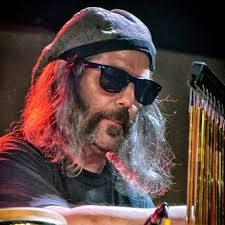
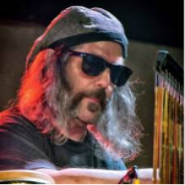
redesigned photos to suit page layout

diff --git a/index.html b/index.html
@@ -45,12 +45,57 @@
                <div class="col-xs-12 col-sm-12 col-md-8 bg-color-five-players section-column">
                    <div class="row">
                        <div class="col-md-12">
-                           <h3 class"section-heading uppercase"> The Band</h3>
-                           
-                       </div>
-                       
-                   </div>
-                   
+                           <h3 class="section-heading uppercase"> The band</h3>
+                        </div>
+                    </div>
+                    <div class="row">
+                        <div class="col-xs-10 col-xs-offset-1 col-sm-offset-0 col-sm-4 col-md-6">
+                                <img src="assets/images\michaelgreen.jpg" alt="picture"; style="display: block; height: 185px; width: 185px; margin: 5px auto; text-align: center;">
+                                    <h4 class="five-players-heading uppercase">Michael Green</h4>
+                                    <p>
+                                        Formerly with Blues Image, Mike has performed with many other well known groups. 
+                                        Along with his vocals, he brings additional rhythm to the group.
+                                    </p>
+                            </div>       
+                            <div class="col-xs-10 col-xs-offset-1 col-sm-offset-0 col-sm-4 col-md-6">
+                                <img src="assets/images\ericbarnett.png" alt="picture" style="display: block; margin: 5px auto; text-align: center;">
+                                    <h4 class="five-players-heading uppercase">Eric Barnett</h4>
+                                    <p>
+                                        Eric is a veteran of Iron Butterly and has travelled the world with the original band beginning in 1995.
+                                        He returns with his lead vocals, powerful guitar playing and distinct sound. Eric has performed with 
+                                        many other well known artists. Eric is known as a world class guitarist and vocalist.
+                                    </p>
+                            </div>        
+                        <div class="col-xs-10 col-xs-offset-1 col-sm-offset-0 col-sm-4 col-md-6">
+                            <img src="assets/images\rayweston.png" alt="picture" style="display: block; margin: 5px auto; text-align: center;">
+                                <h4 class="five-players-heading uppercase">Ray Weston</h4>
+                                    <p>
+                                        Ray was a long time member of Wishbone Ash and joined the house bands or Viva Cabaret
+                                        with Tom Jones.  He returned to Wishbone Ash in 1997 - 2007.  In 2010 Ray toured 14
+                                        countries with Iron Butterfly.
+                                    </p>
+                         </div>
+                        <div class="col-xs-10 col-xs-offset-1 col-sm-offset-0 col-sm-4 col-md-6">
+                            <img src="assets/images\dave meros.png" alt="picture" style="display: block; margin: 5px auto; text-align: center;">
+                                <h4 class="five-players-heading uppercase">Dave Meros</h4>
+                                    <p>
+                                        Dave returns again to Iron Butterfly providing the heavy bass lines that Iron Butterfly
+                                        are famous for.  Dave is best known as the bass player for the rock band Spock's Beard.
+                                        He has also played with such artists as Eric Burdon, Bobby Kimball of Toto, Simon Phillips,
+                                        Steve Lukather, Glen Hughes, Mark Lindsay of Paul Revere & The Raiders!
+                                       </p>
+                        </div>       
+                        <div class="col-xs-10 col-xs-offset-1 col-sm-offset-0 col-sm-4 col-md-6">
+                            <img src="assets/images\martin gershwitz.jpg" alt="picture" style="display: block; margin: 5px auto; text-align: center;">
+                        
+                                <h4 class="five-players-heading uppercase">Martin Gerschwitz</h4>
+                                    <p>
+                                        German violinist, keyboardist, and composer Martin Gerschwitz, who had formerly worked with Lita Ford,
+                                        MeatLoaf, Walter Trout and Eric Burdon and The Animals, joined the band in 2005, replacing Larry Rust.
+                                        He stayed until 2012 but has returned to bring his immense talent back to Iron Butterfly.
+                                    </p>
+                        </div>            
+                    </div>
                </div>
                
            </div>    

diff --git a/assets/css/style.css b/assets/css/style.css
@@ -83,7 +83,7 @@ header{
 h1,
 h2,
 h3,
-h4 {text-align: center}
+h4 {text-align: center;}
 
 
 /*----------------------------------------------nav*/
@@ -200,10 +200,12 @@ footer{
 
 .section-heading{
     font-family: "Exo", sans-serif;
-    font-weight: 300;
+    font-weight: 500;
     margin-top: 25px;
     margin-bottom: 40px;
 }
+
+
 
 /*----------------------------------------------music albums*/
 
